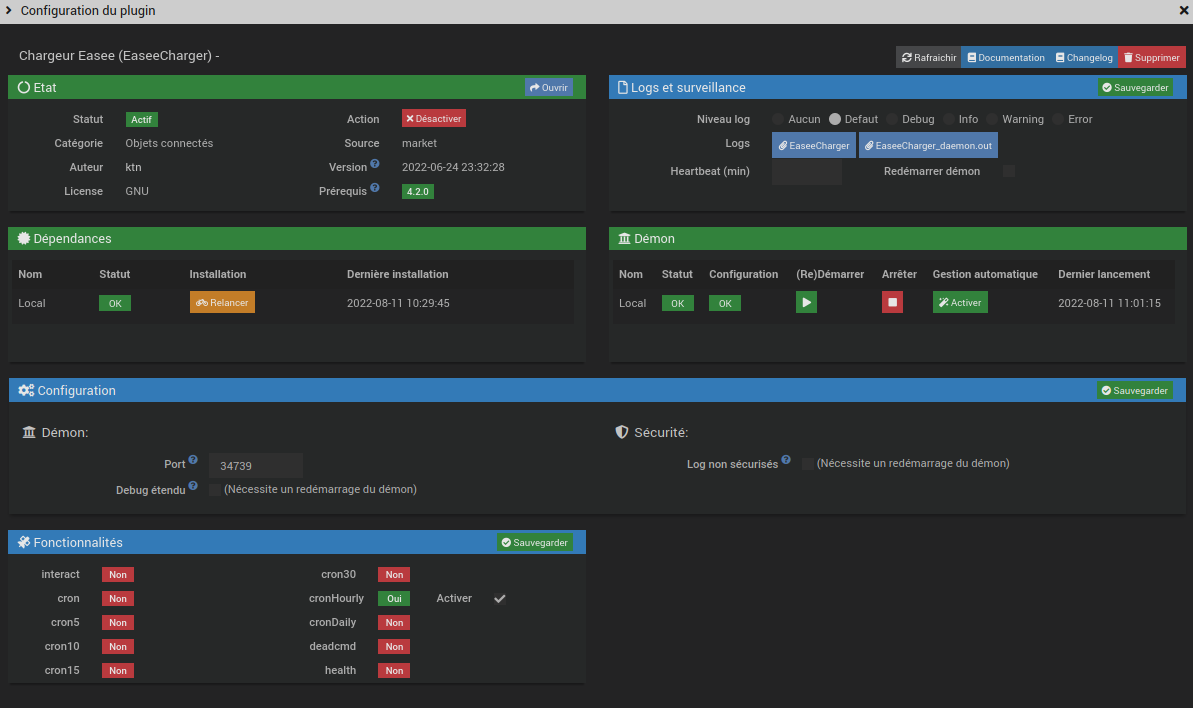
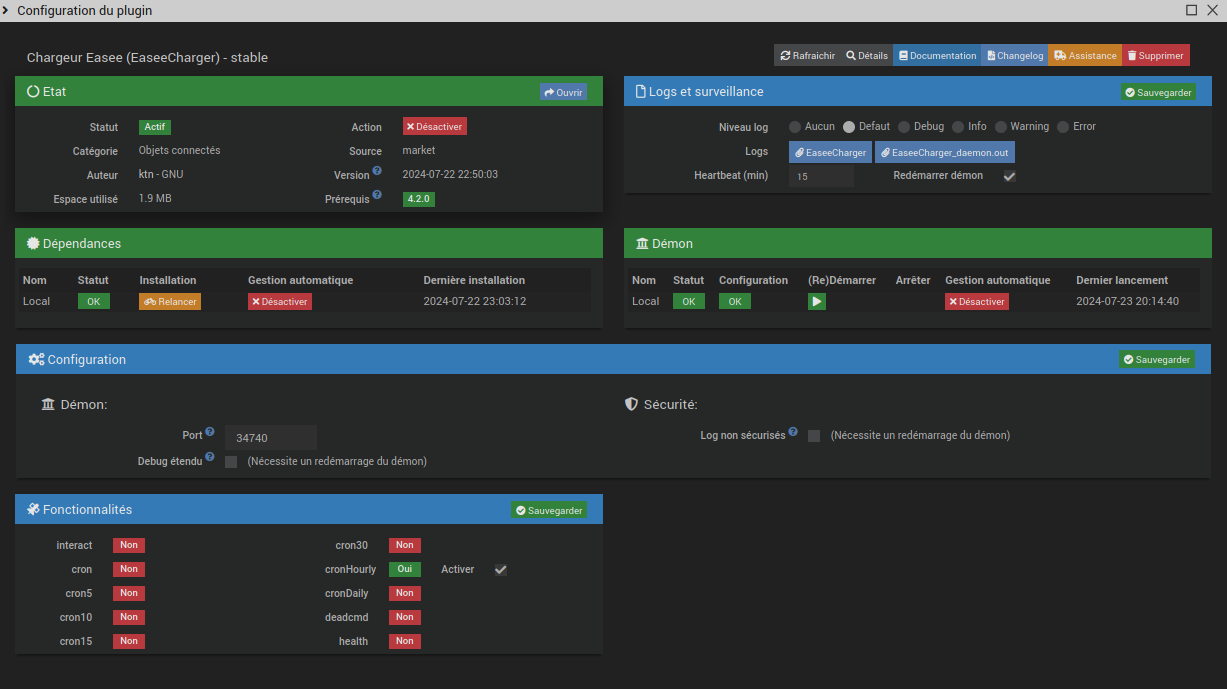
heartbeat pour EaseeCharger

diff --git a/fr_FR/EaseeCharger/index.md b/fr_FR/EaseeCharger/index.md
@@ -34,6 +34,15 @@ Le plugin s'installe de manière standard depuis le market de Jeedom. Après l'a
     + ***Log non sécurisé***
     : Les données sensibles (password, token, etc...) sont remplacées dans les logs par des `********`. L'option "**Log non sécurisé**" désactive le remplacement et laisse les données sensibles en clair dans les logs.
 
+## Configuration du heartbeat
+{: .num}
+
+Il arrive que le flux de données en provenance du cloud Easse soit interrompu sans que la connection ne soit interrompue. Le deamon ne 
+ne détecte pas ce genre de situation qu'il ne peut donc pas gérer.
+
+Pour contourner ce problème, un heartbeat est automatiquement configuré lors de l'activation du plugin. Le deamon est redémarrer
+automatiquement par le heartbeat lorsque le deamon n'a pas remonté de données dans Jeedom depuis plus de 15 minutes.
+
 # Les comptes
 {: .num}
 
